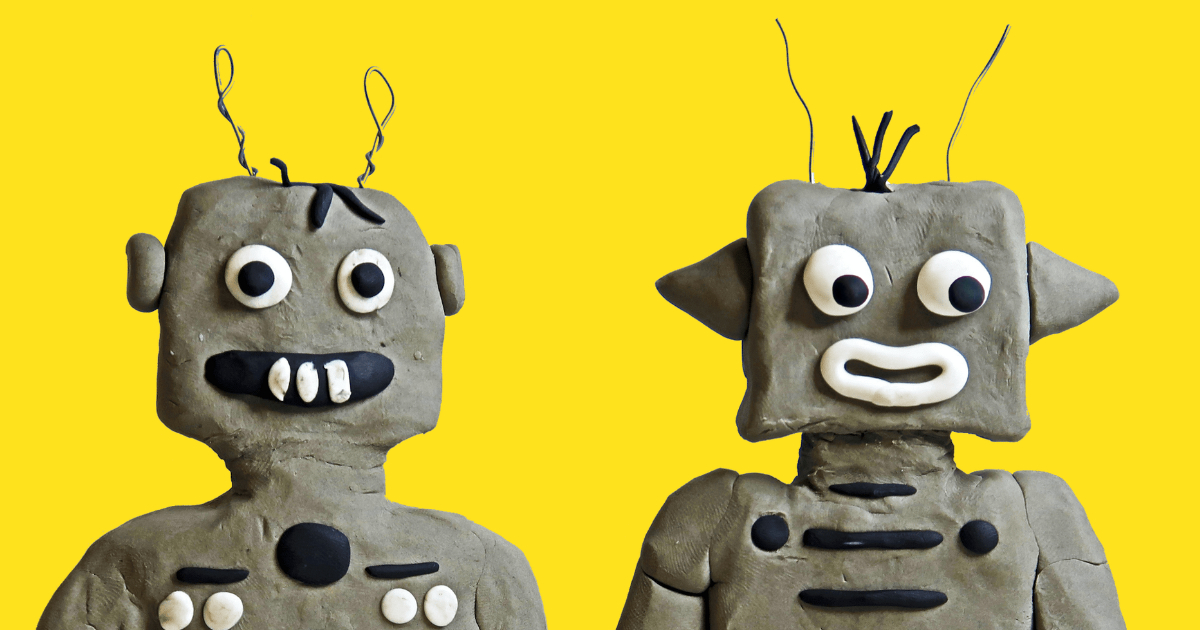
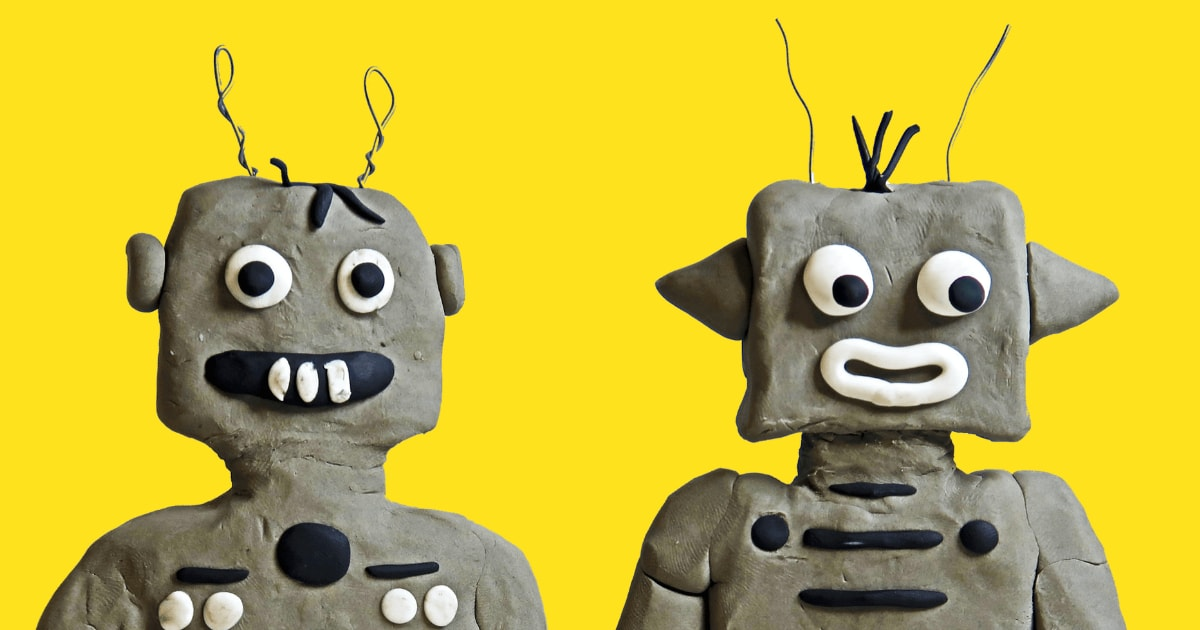
resize meta tag images

diff --git a/src/js/eyes.js b/src/js/eyes.js
@@ -2,8 +2,7 @@
 let butterfly = document.getElementById('butterfly');
 
 const moveButterfly = (x,y) => {
-  console.log('fly')
-  const formerPosition = {x: butterfly.x, y: butterfly.x} 
+  const formerPosition = {x: butterfly.x} 
   
   if(formerPosition.x < x){
     butterfly.style.transform = 'rotate(20deg)translate(-4vw, -4vw)'  
@@ -13,7 +12,6 @@ const moveButterfly = (x,y) => {
   butterfly.style.top = `${y}px`
   butterfly.style.left = `${x}px`
 
-  //butterfly.style.transform = 'rotate(0deg)'
 }
 
 //mobile eyes
@@ -116,7 +114,6 @@ if(window.innerWidth > 850 || window.innerHeight < window.innerWidth){
   const rightEyeWidth = eyeRightD.offsetWidth;
   
   page.addEventListener('click', e => {
-    console.log('click')
     if(posEyeL.y  > currentPositionY && posEyeL.y < currentPositionY + window.innerHeight){
       findMouseCoords(e);
       moveButterfly(mousePosition.x, mousePosition.y)

diff --git a/index.html b/index.html
@@ -18,7 +18,7 @@
     <meta property="twitter:url" content="http://roboundroberta.de/">
     <meta property="twitter:title" content="Robo + Roberta">
     <meta property="twitter:description" content="Mit den beiden Robotern entdecken wir unsere Welt ganz neu! Bücher, Hörspiele, Musik, Tanz und Kunstprojekte für Kinder, Jugendliche und Erwachsene.">
-    <meta property="twitter:image" content="src/images/meta-tag.jpg">
+    <meta property="twitter:image" content="src/images/meta-tag-twitter.jpg">
     
     <meta name="viewport" content="width=device-width, initial-scale=1.0">
   

diff --git a/src/js/hearts.js b/src/js/hearts.js
@@ -86,11 +86,9 @@ const stopHeartsRise = () => {
 }
 
 document.addEventListener('click', function(event) {
-  let isClickInside = hoverboxMobile.contains(event.target);
-  console.log(isClickInside)
+  const isClickInside = hoverboxMobile.contains(event.target);
 
   if (isClickInside) {
-    console.log("in")
     letHeartsRise()
     //the click was outside the specifiedElement, do something
   } else {
